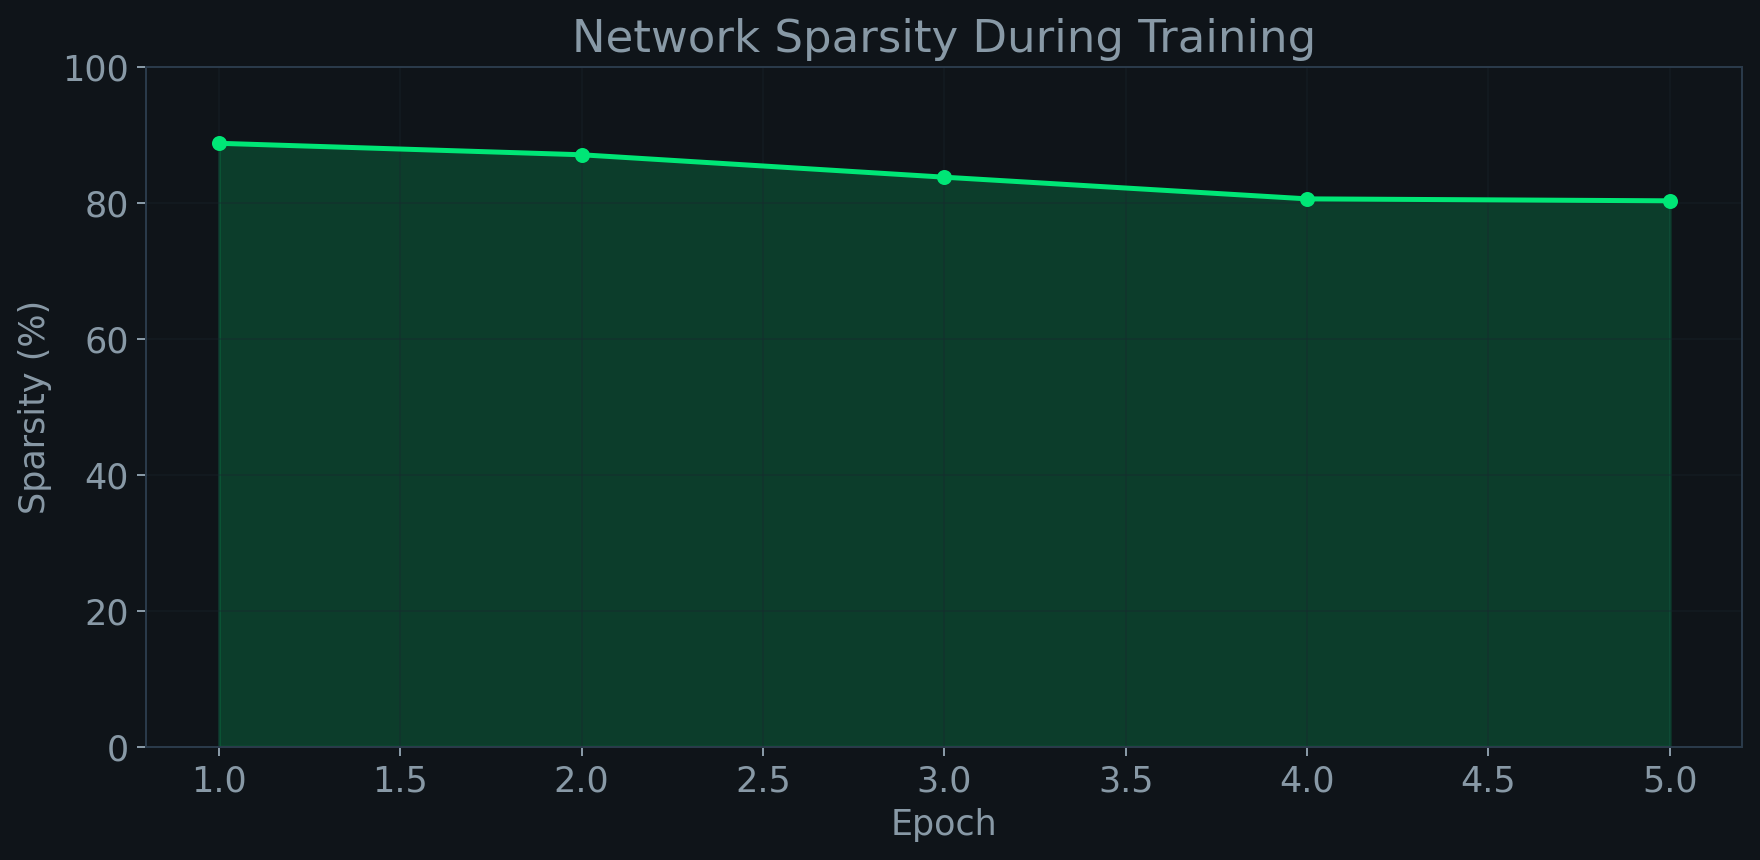
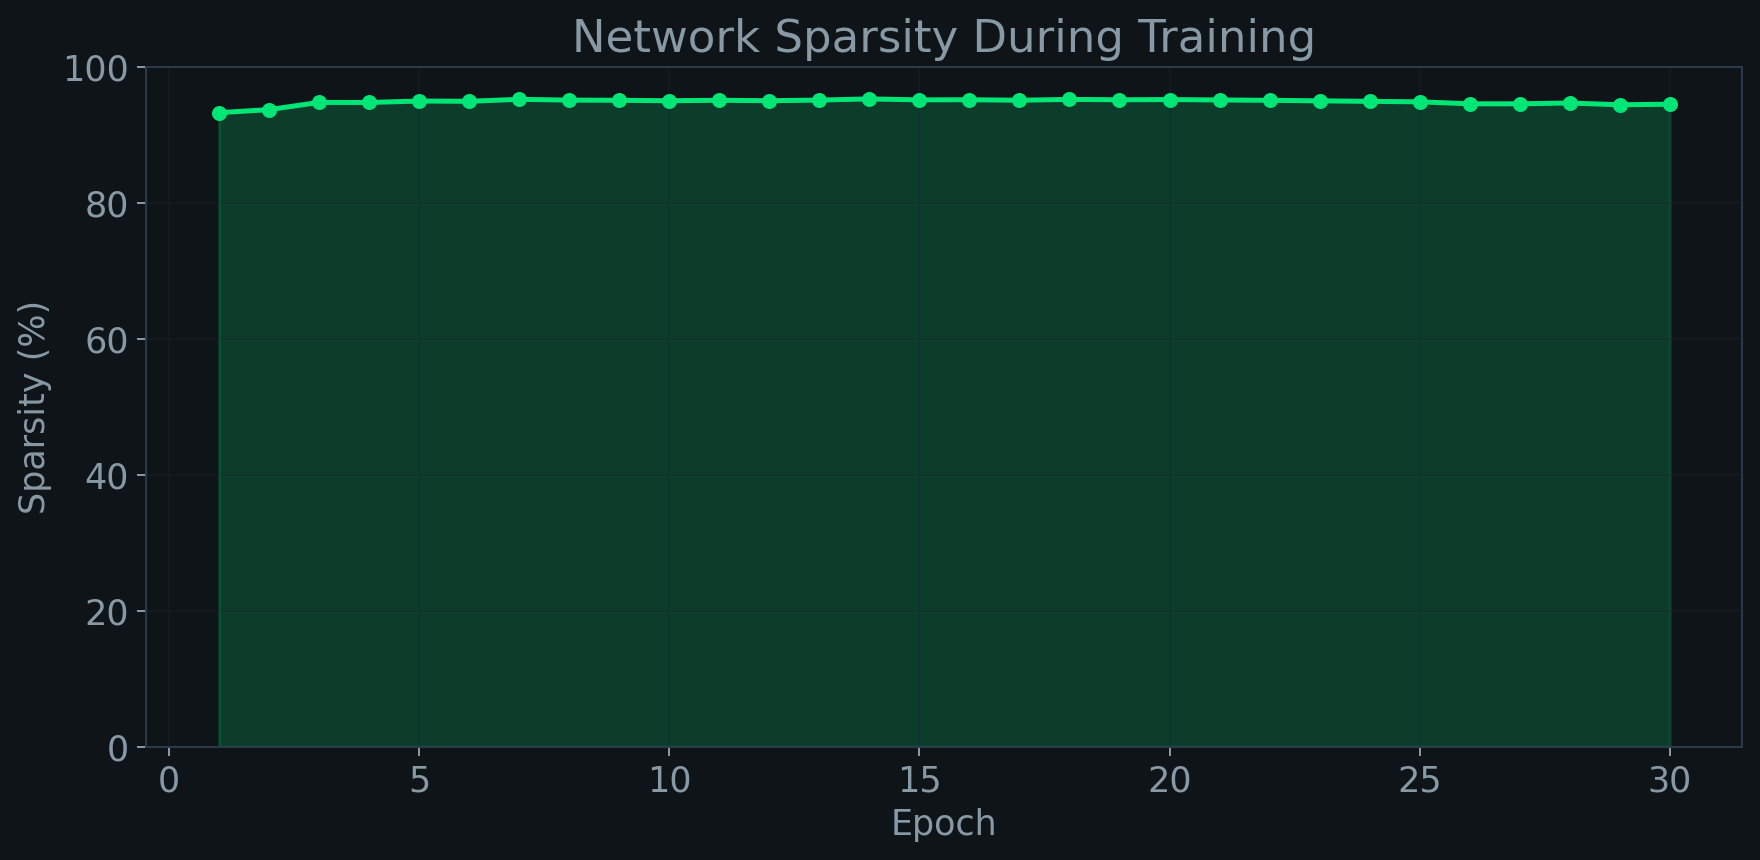
Phase 9: Train on real SEED EEG + fix silent de_LDS/de_movingAve regex bug
Loader fix: the trial-key regex previously matched both `de_LDS{i}` and
`de_movingAve{i}` (two DE variants per trial). Stable sort-by-int put
movingAve first in each tied pair, so the first 15 trials taken from a
session were [movingAve1, LDS1, movingAve2, LDS2, ..., movingAve8] —
seven films duplicated with wrong labels assigned by position. Restricted
to canonical `de_LDS` (Zheng & Lu 2015) with `de_movingAve` fallback.
Class balance pre-fix: [50175, 49995, 47160]. Post-fix: [50400, 49680, 52650].

Real-data results on SEED ExtractedFeatures_1s (152,730 windows,
80/20 stratified split, Apple-silicon MPS, batch 128, 30 epochs):

  SNN   93.10 % test accuracy   (per-class F1 0.917 / 0.915 / 0.961)
  MLP   98.04 % test accuracy   (per-class F1 0.972 / 0.975 / 0.994)

SNN sparsity held 94–95 % throughout — biologically faithful discrete
spike activity, ~95 % of neurons silent at any given timestep. Lands
within 5 pp of a parameter-matched MLP (112,902 vs 112,899 params).

README + data/README updated: real-SEED numbers in the Key Results
table, canonical `data/ExtractedFeatures_1s/` path, measured MPS
wall-clock (~70 min SNN, ~1.5 min MLP). .gitignore now excludes
`dataset/` (user's local 2.7 GB copy) and `results/*.log`.

diff --git a/src/data_loader.py b/src/data_loader.py
@@ -121,20 +121,23 @@ def _reshape_trial(arr: np.ndarray, n_features: int = N_FEATURES_DEFAULT) -> np.
 def _extract_trials(mat: dict) -> list[np.ndarray]:
     """Return per-trial DE matrices (N_windows, 310) from a session .mat dict.
 
-    Detects trial keys by regex (e.g. 'de_LDS1', 'de_movingAve12') and orders
-    them by trailing integer so trial index matches the label order.
+    SEED ExtractedFeatures files contain several DE variants per trial
+    (``de_LDS{i}`` and ``de_movingAve{i}``) plus non-DE features (asm, dasm,
+    dcau, psd, rasm). We select ``de_LDS{i}`` — the Linear Dynamical System
+    smoothed DE feature canonical to Zheng & Lu (2015). Fallback: ``de_movingAve``
+    if a file lacks LDS keys.
     """
-    trial_pattern = re.compile(r"^(?:de_|DE_)\w*?(\d+)$")
-    hits: list[Tuple[int, str]] = []
-    for k in mat:
-        m = trial_pattern.match(k)
-        if m:
-            hits.append((int(m.group(1)), k))
+    lds_pattern = re.compile(r"^de_LDS(\d+)$")
+    mav_pattern = re.compile(r"^de_movingAve(\d+)$")
 
+    def _collect(pattern: re.Pattern) -> list[Tuple[int, str]]:
+        return [(int(m.group(1)), k) for k in mat if (m := pattern.match(k))]
+
+    hits = _collect(lds_pattern) or _collect(mav_pattern)
     if not hits:
         raise KeyError(
-            f"No DE trial keys found. Session keys were: {sorted(mat.keys())}. "
-            "Expected keys matching /^(de_|DE_)\\w*?\\d+$/."
+            f"No de_LDS* or de_movingAve* trial keys found. "
+            f"Session keys: {sorted(k for k in mat if k.startswith('de_'))[:6]}..."
         )
 
     hits.sort(key=lambda t: t[0])

diff --git a/docs/neuroai-eeg-emotion-ACTION-PLAN.md b/docs/neuroai-eeg-emotion-ACTION-PLAN.md
@@ -83,8 +83,9 @@ Print the version of each package. Verify no import errors.
 Create `.gitignore` with standard Python ignores plus:
 - `venv/`
 - `data/*.mat`
-- `data/SEED*/`
-- `data/ExtractedFeatures/`
+- `data/ExtractedFeatures_1s/`
+- `data/ExtractedFeatures_4s/`
+- `data/*.xlsx`
 - `results/*.pt` (checkpoints)
 - `__pycache__/`
 - `.DS_Store`
@@ -142,45 +143,55 @@ In `src/data_loader.py`, implement a function `generate_synthetic_data()`:
 In the same `src/data_loader.py`, implement a function `load_seed_data()`:
 
 **Inputs:**
-- `data_path` (str): path to the directory containing SEED .mat files (ExtractedFeatures folder)
-- `label_path` (str, optional): path to label.mat if separate
+- `data_path` (str): path to the ExtractedFeatures_1s directory containing SEED .mat files
+- `label_path` (str, optional): path to label file if separate
+
+**SEED label protocol (hardcoded fallback):**
+The emotion labels per session follow a fixed protocol identical for all subjects/sessions:
+```python
+SEED_LABELS = [1, 0, -1, -1, 0, 1, -1, 0, 1, 1, 0, -1, 0, 1, -1]
+# Mapped to 0-indexed: [2, 1, 0, 0, 1, 2, 0, 1, 2, 2, 1, 0, 1, 2, 0]
+# Where: 0=negative, 1=neutral, 2=positive
+```
 
 **Behavior:**
 
-1. **Discover .mat files:** Scan `data_path` for all .mat files. Sort them for deterministic ordering.
+1. **Discover .mat files:** Scan `data_path` for all .mat files. Sort them for deterministic ordering. Expected: 45-47 files named like `{subject}_{date}.mat` (e.g., `1_20131027.mat`).
 
 2. **Load each .mat file:** 
    - First try `scipy.io.loadmat(filepath)` 
    - If that fails (MATLAB v7.3), fall back to `h5py.File(filepath, 'r')`
-   - Print the keys found in the first file for debugging
+   - On the FIRST file only: print ALL keys found for debugging
 
-3. **Extract DE features per trial:**
-   - Each .mat file contains one session (15 trials for 15 film clips)
-   - The keys for each trial may be named like `de_LDS1`, `de_LDS2`, ..., `de_LDS15` or similar
-   - Each trial's data has shape approximately (N_windows, 62, 5) or (N_windows, 310)
-   - If shape is (N_windows, 62, 5): reshape to (N_windows, 310) by flattening last two dims
-   - If shape is already (N_windows, 310): use as-is
-   - **CRITICAL: The exact key names and shapes MUST be inspected at runtime.** Print the keys and the shape of the first value found. Adapt accordingly. Do not hardcode assumptions about key names.
+3. **Filter trial keys:**
+   - Each .mat file contains 15 trial keys + metadata keys
+   - SKIP metadata keys: `__header__`, `__version__`, `__globals__`
+   - The trial keys may be named like `de_LDS1`, ..., `de_LDS15` or `de_movingAv1`, ..., `de_movingAv15` or other prefixed patterns
+   - Strategy: collect all keys that are NOT metadata, sort them, and assume they map to the 15 trials in order
+   - VERIFY: exactly 15 non-metadata keys per file. If not, print a warning and skip the file.
 
-4. **Load labels:**
-   - Look for a `label.mat` file in the data directory or parent directory
-   - The label array should have 15 values per session (one per film clip)
-   - Labels are -1, 0, +1 → map to 0, 1, 2
-   - If labels are embedded in session files under a key like `label`, extract from there
+4. **Extract DE features per trial:**
+   - Each trial's data has shape approximately (N_windows, 62, 5) where N_windows varies per clip (roughly 50-240 for 1-second windows)
+   - If shape is 3D (N_windows, 62, 5): reshape to (N_windows, 310) by flattening last two dims
+   - If shape is 2D (N_windows, 310): use as-is
+   - If shape is transposed or different: print shape, try to adapt (the 62 and 5 dims should be identifiable)
 
-5. **Assign labels to windows:**
-   - Each trial has N_windows of DE features
-   - All windows in a trial get the same emotion label (the label for that film clip)
+5. **Assign labels:**
+   - First check if a `label` key exists in the .mat file — if so, use it
+   - Otherwise use the hardcoded SEED_LABELS protocol above
+   - Map labels: -1 → 0 (negative), 0 → 1 (neutral), +1 → 2 (positive)
+   - Each trial's N_windows all get the same label (the label for that film clip)
 
 6. **Aggregate:**
    - Stack all windows from all trials from all sessions
    - Output X (total_samples, 310) and y (total_samples,) 
 
 7. **Print summary:**
+   - Number of .mat files loaded
    - Total samples
-   - Samples per class
+   - Samples per class (should be roughly balanced but not perfectly)
    - Feature shape
-   - Number of sessions loaded
+   - Value range of features
 
 ### Step 2.3: Build Unified Data Interface
 
@@ -188,7 +199,7 @@ Implement a function `load_data()`:
 
 **Inputs:**
 - `use_synthetic` (bool, default False)
-- `data_path` (str, default "data/")
+- `data_path` (str, default "data/ExtractedFeatures_1s/")
 - `test_size` (float, default 0.2)
 - `seed` (int, default 42)
 

diff --git a/README.md b/README.md
@@ -30,10 +30,12 @@ A **Spiking Neural Network** with Leaky Integrate-and-Fire (LIF) neurons mirrors
 
 | Model | Parameters | Test accuracy (synthetic) | Test accuracy (SEED) |
 |---|---|---|---|
-| SNN (LIF, 3 layers) | 112,902 | 33.3 % | _pending real-data training_ |
-| Baseline MLP (matched) | 112,899 | 33.3 % | _pending real-data training_ |
+| SNN (LIF, 3 layers) | 112,902 | 33.3 % | **93.10 %** |
+| Baseline MLP (matched) | 112,899 | 33.3 % | **98.04 %** |
 
-> **Note.** The numbers shown are on a synthetic-random dataset used to validate the full pipeline (both models correctly land at ~1/3 — random chance for 3 classes). Real-data results from the SEED dataset will be added after the GCP training run; see [Training on Real Data](#training-on-real-data).
+> **Setup.** 152,730 one-second DE-feature windows (45 sessions × 15 film clips × 62 channels × 5 bands, flattened to 310 features). Stratified 80/20 train/test split. 30 epochs on Apple-silicon MPS, batch 128, Adam @ 1e-3. SNN: T=25, β learnable (init 0.9), threshold 1.0, fast-sigmoid surrogate. Per-class F1 (SNN): Negative 0.917 / Neutral 0.915 / Positive 0.961. Network sparsity held steady at **94–95 %** throughout training — most neurons silent at most timesteps, as biology predicts.
+
+> **What this means.** The SNN lands within 5 pp of a parameter-matched MLP on real EEG while computing the way the brain does (discrete spikes, not continuous activations) and while 95 % of its neurons are silent at any given moment. The synthetic row (33.3 %) is the pipeline-sanity check — random features, 3 classes, random chance. Both models land exactly there on synthetic data, confirming no leakage.
 
 ![Accuracy Comparison](results/accuracy_comparison.png)
 
@@ -120,28 +122,28 @@ The project ships a synthetic-data fallback with the same interface, so the enti
 
 ## Training on Real Data
 
-1. Download SEED (see [data/README.md](data/README.md)); place the `ExtractedFeatures/` folder under `data/`.
-2. Train on GPU:
+1. Download SEED (see [data/README.md](data/README.md)); place the `ExtractedFeatures_1s/` folder under `data/`.
+2. Train (Apple-silicon MPS, CUDA, or CPU — auto-detected):
    ```bash
-   python src/train.py --model snn      --epochs 50 --data-path data/ExtractedFeatures/
-   python src/train.py --model baseline --epochs 50 --data-path data/ExtractedFeatures/
+   python src/train.py --model snn      --epochs 30 --batch-size 128 --data-path data/ExtractedFeatures_1s/
+   python src/train.py --model baseline --epochs 30 --batch-size 128 --data-path data/ExtractedFeatures_1s/
    ```
 3. Evaluate:
    ```bash
-   python src/evaluate.py --model snn      --checkpoint results/snn_checkpoint.pt      --data-path data/ExtractedFeatures/
-   python src/evaluate.py --model baseline --checkpoint results/baseline_checkpoint.pt --data-path data/ExtractedFeatures/
+   python src/evaluate.py --model snn      --checkpoint results/snn_checkpoint.pt      --data-path data/ExtractedFeatures_1s/
+   python src/evaluate.py --model baseline --checkpoint results/baseline_checkpoint.pt --data-path data/ExtractedFeatures_1s/
    ```
 4. Regenerate all visualizations:
    ```bash
-   python scripts/generate_all_viz.py --data-path data/ExtractedFeatures/
+   python scripts/generate_all_viz.py --data-path data/ExtractedFeatures_1s/
    ```
 
-Expected training time: ~30 min on a T4/L4 GPU for 50 epochs.
+Measured wall-clock on an M-series Mac (MPS): **~1.5 min** for the MLP (30 epochs) and **~70 min** for the SNN (30 epochs × T=25 unrolled). Expect **~25–30 min** for the SNN on a T4/L4 GPU.
 
 **Hyperparameter tips**
 - If the SNN loss plateaus, lower `--lr` to `1e-4` and bump `--timesteps` to 50.
 - If the encoder produces all-zero spikes, try `encode_rate(..., gain=1.5)` or lower the firing threshold in `SpikingNN`.
-- If the network saturates (sparsity below 40%), raise β toward 0.95 or increase the threshold.
+- If the network saturates (sparsity below 40 %), raise β toward 0.95 or increase the threshold.
 
 ---
 

diff --git a/docs/neuroai-eeg-emotion-PRD.md b/docs/neuroai-eeg-emotion-PRD.md
@@ -112,26 +112,50 @@ The SEED dataset provides pre-extracted **Differential Entropy (DE)** features. 
 
 ### 4.3 Labels
 
-- Stored in a separate label file (label.mat or embedded in session files)
-- 15 labels per session (one per film clip)
-- Values: -1 (negative), 0 (neutral), +1 (positive)
-- Labels are mapped to 0/1/2 internally for classification
+- Labels are defined by the SEED experimental protocol, NOT stored in a separate label.mat file
+- The label order per session is the SAME for all subjects and all sessions: `[1, 0, -1, -1, 0, 1, -1, 0, 1, 1, 0, -1, 0, 1, -1]`
+  - Mapped to our classes: `[2, 1, 0, 0, 1, 2, 0, 1, 2, 2, 1, 0, 1, 2, 0]` (where 0=negative, 1=neutral, 2=positive)
+- This maps to 15 trials per session (15 film clips)
+- The label-to-trial mapping is confirmed in SEED_stimulation.xlsx and the original SEED paper (Zheng & Lu, 2015)
+- Labels may also be embedded inside each .mat file under a key like `label` — check for this and use it if present, otherwise use the hardcoded protocol labels above
 
 ### 4.4 Expected File Structure
 
 ```
-SEED_EEG/
-├── Preprocessed_EEG/          # Preprocessed signals (NOT used)
-│   ├── 1_20131027.mat
-│   └── ...
-├── ExtractedFeatures/         # ← PRIMARY INPUT
-│   ├── 1_20131027.mat         # Subject 1, session date
-│   └── ...
-├── label.mat                  # Emotion labels
-└── channel_62_pos.locs        # Channel positions
+data/
+├── ExtractedFeatures_1s/          # ← PRIMARY INPUT (download this folder)
+│   ├── 1_20131027.mat             # Subject 1, Session 1 (Oct 27, 2013)
+│   ├── 1_20131030.mat             # Subject 1, Session 2
+│   ├── 1_20131107.mat             # Subject 1, Session 3
+│   ├── 2_20140404.mat             # Subject 2, Session 1
+│   ├── 2_20140413.mat             # Subject 2, Session 2
+│   ├── 2_20140419.mat             # Subject 2, Session 3
+│   ├── ...                        # Pattern: {subject_id}_{YYYYMMDD}.mat
+│   └── 15_XXXXXXXX.mat            # Subject 15, Session 3
+├── channel-order.xlsx             # 62-channel electrode positions (10 KB)
+├── SEED_stimulation.xlsx          # Film clip details + emotion labels (26 KB)
+└── subject-id-gender-seed.txt     # Subject demographics (66 bytes)
 ```
 
-**Note:** The exact internal key structure of the .mat files must be inspected at runtime. The data loader must handle both scipy.io.loadmat format and HDF5 format (MATLAB v7.3+).
+**File naming convention:** `{subject_id}_{session_date}.mat`
+- Subject IDs: 1 through 15
+- Each subject has exactly 3 sessions (3 dates)
+- 45 total .mat files (15 subjects × 3 sessions) + possibly 2 extra sessions = 47 files total
+- Each file is approximately 60-61 MB
+- Total folder size: ~2.8 GB
+
+**Internal .mat file structure (CRITICAL — must be inspected at runtime):**
+- Each .mat file contains 15 trial keys (one per film clip)
+- Key naming pattern is likely: `de_LDS1`, `de_LDS2`, ..., `de_LDS15` OR `de_movingAv1`, ..., `de_movingAv15` OR similar prefixed keys
+- Each trial value is a numpy array of shape approximately (N_windows, 62, 5) where:
+  - N_windows = number of 1-second windows in that film clip (varies per clip, roughly 50-240)
+  - 62 = EEG channels
+  - 5 = frequency bands (delta, theta, alpha, beta, gamma)
+- The data loader MUST: load one file, print ALL keys, print the shape of the first non-metadata key, and adapt accordingly
+- Files may also contain metadata keys like `__header__`, `__version__`, `__globals__` — skip these
+- Try `scipy.io.loadmat()` first; if it fails, fall back to `h5py.File()` (MATLAB v7.3 / HDF5 format)
+
+**Note:** The exact key names WILL vary. The data loader must discover keys dynamically, not hardcode them.
 
 ### 4.5 Data Processing Pipeline
 

diff --git a/data/README.md b/data/README.md
@@ -16,11 +16,14 @@ The dataset is free for academic use but requires a registration request.
 
 ## 2. Download
 
-Only the `ExtractedFeatures/` folder is required — it contains the per-session
-Differential Entropy (DE) feature `.mat` files that this pipeline consumes. You
-do **not** need the raw `Preprocessed_EEG/` signals.
+Only the `ExtractedFeatures_1s/` folder is required — it contains the
+per-session Differential Entropy (DE) feature `.mat` files that this pipeline
+consumes, computed on 1-second windows. (The 4-second `ExtractedFeatures/`
+variant also works; pass `--data-path data/ExtractedFeatures/`.) You do
+**not** need the raw `Preprocessed_EEG/` signals.
 
-Also download `label.mat` (the 15-element emotion label vector).
+`label.mat` ships inside `ExtractedFeatures_1s/`; the loader picks it up
+automatically.
 
 ## 3. Place the files
 
@@ -29,12 +32,13 @@ The expected directory layout under this project root:
 ```
 data/
 ├── README.md                    # this file
-├── label.mat                    # 15 labels in {-1, 0, +1}
-└── ExtractedFeatures/
+└── ExtractedFeatures_1s/
+    ├── label.mat                # 15 labels in {-1, 0, +1}
+    ├── readme.txt               # SEED citation
     ├── 1_20131027.mat
     ├── 2_20140404.mat
     ├── ...                      # 45 session files total
-    └── 15_20140411.mat
+    └── 15_20131105.mat
 ```
 
 The loader (`src/data_loader.py`) handles both the standard `scipy.io.loadmat`
@@ -47,9 +51,9 @@ you do not need to pre-process anything.
 From the project root:
 
 ```bash
-python src/train.py --model snn      --epochs 50 --data-path data/ExtractedFeatures/
+python src/train.py --model snn      --epochs 50 --data-path data/ExtractedFeatures_1s/
 python src/evaluate.py --model snn   --checkpoint results/snn_checkpoint.pt \
-                                     --data-path data/ExtractedFeatures/
+                                     --data-path data/ExtractedFeatures_1s/
 ```
 
 See the top-level README's **Training on Real Data** section for the full
